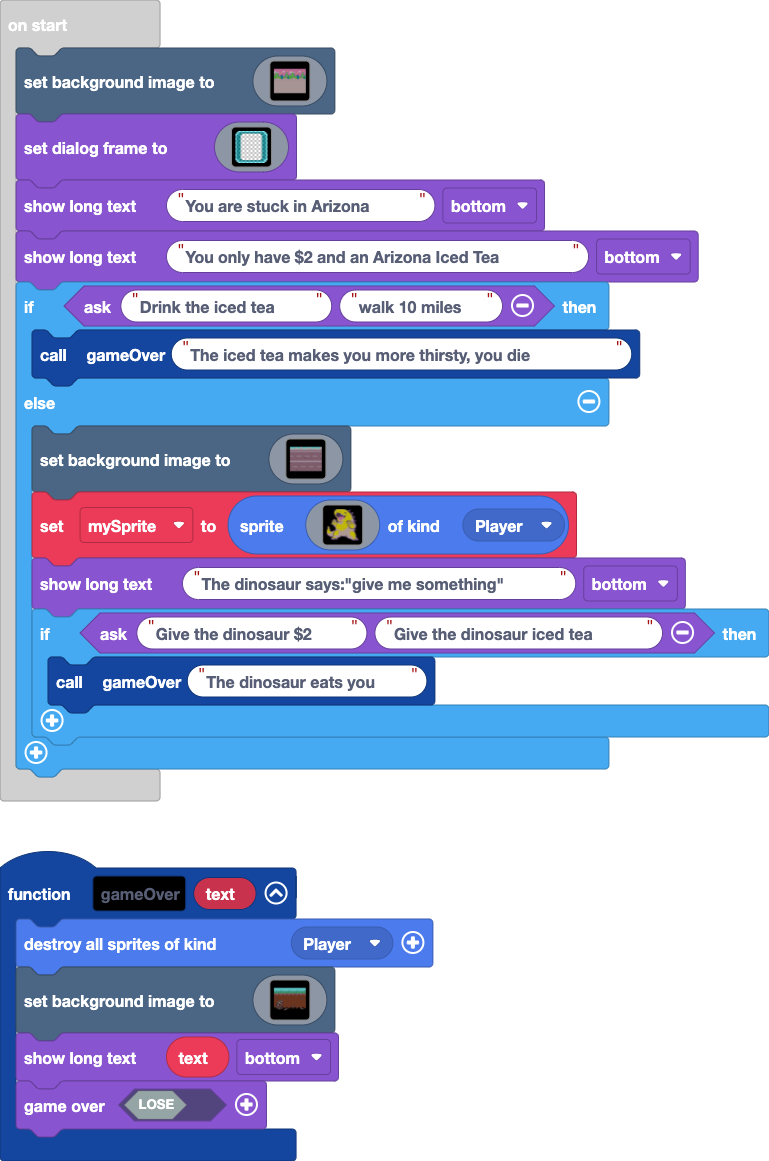
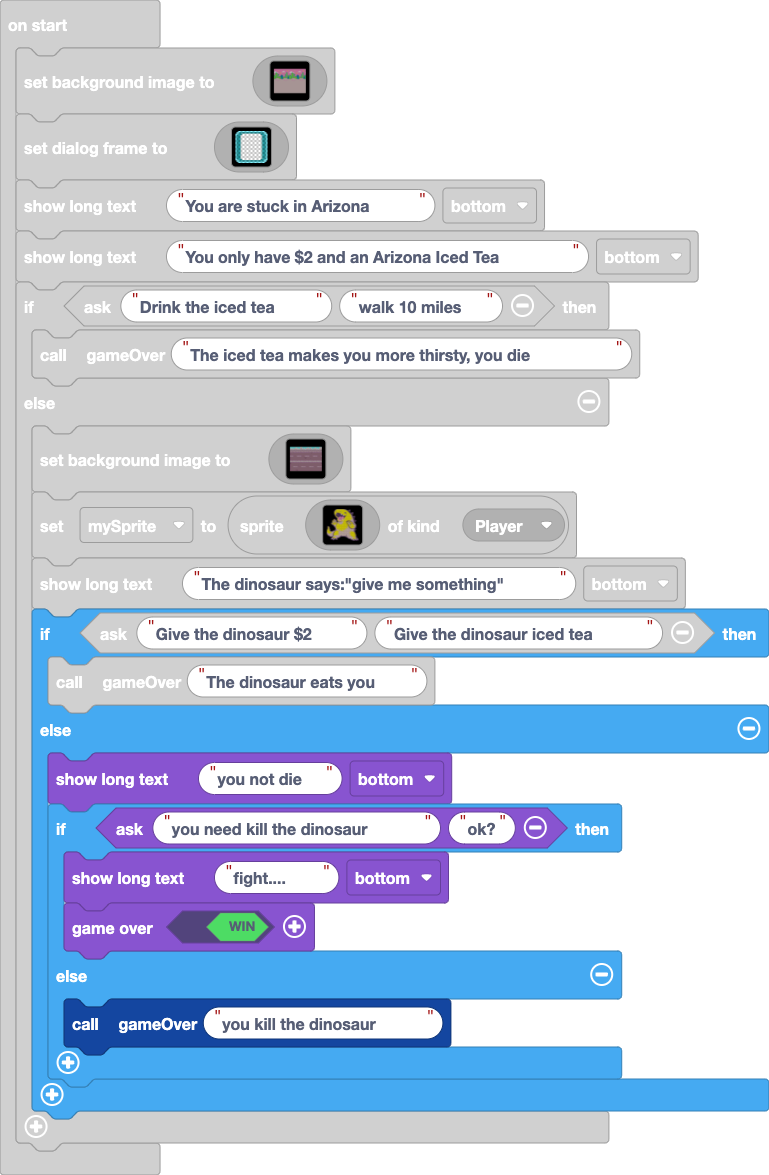
finished the game

diff --git a/main.ts b/main.ts
@@ -482,5 +482,13 @@ if (game.ask("Drink the iced tea", "walk 10 miles")) {
     game.showLongText("The dinosaur says:\"give me something\"", DialogLayout.Bottom)
     if (game.ask("Give the dinosaur $2", "Give the dinosaur iced tea")) {
         gameOver("The dinosaur eats you")
+    } else {
+        game.showLongText("you not die", DialogLayout.Bottom)
+        if (game.ask("you need kill the dinosaur", "ok?")) {
+            game.showLongText("fight....", DialogLayout.Bottom)
+            game.over(true)
+        } else {
+            gameOver("you kill the dinosaur")
+        }
     }
 }
